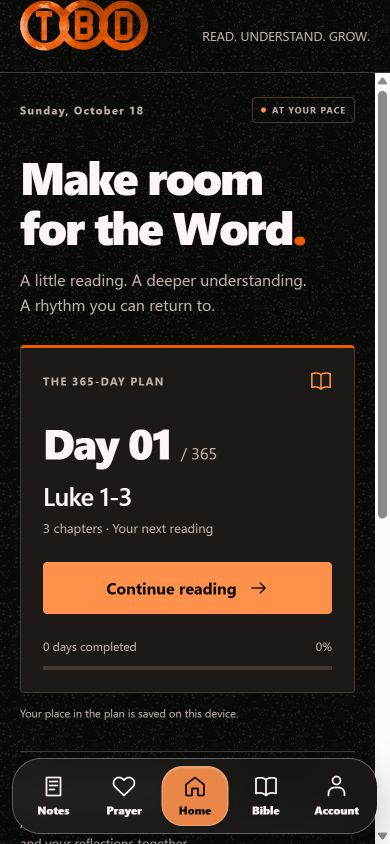
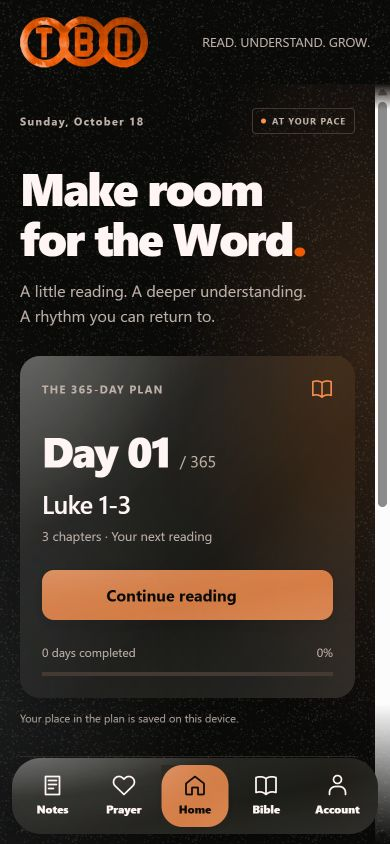
Document glass material and swipe review with updated previews

diff --git a/docs/APP_DESIGN_IMPLEMENTATION.md b/docs/APP_DESIGN_IMPLEMENTATION.md
@@ -4,7 +4,7 @@
 
 The active Expo client now opens in dark mode. Signed-in readers can select Dark or Light under Account → Settings; preferences are saved per account on that device. Guests use dark mode and cannot access Settings. Every screen, dialog, field, reader control, icon and status bar uses reactive semantic theme colors. Reading text size remains an independent preference.
 
-The background has visible, static random vector grain. The header and signed-out account screen use the actual textured TBD artwork from the public website's navbar, bundled locally as AVIF. [Asset provenance](../bibledept-mobile/assets/README.md) identifies the original source. The source image's alpha transparency and 580:229 aspect ratio are preserved, with no added backing or side padding.
+The background has visible random vector grain and broad, subtle warm/cool lighting. The background travels with the page track during tab changes. The header and signed-out account screen use the actual textured TBD artwork from the public website's navbar, bundled locally as AVIF. [Asset provenance](../bibledept-mobile/assets/README.md) identifies the original source. The source image's alpha transparency and 580:229 aspect ratio are preserved, with no added backing or side padding. The header respects the safe area and adds 16 px of vertical clearance; the logo no longer overrides vertical centering.
 
 Home uses an editorial heading, date, a clear next-reading card with honest device plan progress, account streak and seven-day history, reflection shortcuts, and the latest private comment. It does not invent completed days, quotes, or activity to fill empty states. Plan continuation stays local; the chapter completion action writes the cloud reading day.
 
@@ -12,11 +12,19 @@ Home uses an editorial heading, date, a clear next-reading card with honest devi
 
 The user requested the navigation from `yadasa/church`. The reference was the local main checkout at commit [`e7b01d364f19965342d8ee69beb964e6a6a62a29`](https://github.com/yadasa/church/commit/e7b01d364f19965342d8ee69beb964e6a6a62a29), specifically [`LiquidBottomNav.tsx`](https://github.com/yadasa/church/blob/e7b01d364f19965342d8ee69beb964e6a6a62a29/apps/web/src/site/components/LiquidBottomNav.tsx) and its CSS. No Church repository files were changed.
 
-The app ports the rounded frosted shell, five evenly spaced destinations, and the indicator motion to React Native Animated. Ordering is **Notes · Prayer · Home · Bible · Account**. The indicator uses the reference's 430 ms duration, `.22,.82,.18,1` easing, offsets `0/.24/.72/1`, stretch `min(abs(delta) × .42 + 14, 76)`, and trailing compression `min(stretch × .48, 34)`. It is recolored with Bible Dept semantic colors. Width changes settle safely; a newer destination interrupts the previous transition without committing its obsolete route.
+The app ports the rounded frosted shell, five evenly spaced destinations, and the indicator motion to React Native Animated. Ordering is **Notes · Prayer · Home · Bible · Account**. Adjacent transitions retain the reference's 430 ms duration; each extra page crossed adds 90 ms, up to 700 ms. The indicator keeps `.22,.82,.18,1` easing, offsets `0/.24/.72/1`, stretch `min(abs(delta) × .42 + 14, 76)`, and trailing compression `min(stretch × .48, 34)`. It is recolored with Bible Dept semantic colors. Width changes settle safely; a newer destination interrupts the previous transition without committing its obsolete route.
 
-The screen slide and navigation indicator share one Animated.Value and the same 430 ms clock, so they start, progress, and settle together. The incoming screen slides from the side matching the tab's position. The navbar floats over the full-height page, with scrolling content visible behind its translucent blurred material; bottom scroll clearance keeps the last controls reachable. Expo Blur renders after the page's BlurTargetView, including an explicit Android blur target/method. The shell has no opaque backing, and specular borders and inset highlights finish the frosted surface. This uses portable frosted blur rather than the Church website's desktop WebGL scene refraction.
+The page position, background, motion blur and navigation indicator share one animation clock. All pages lie on a single horizontal track in nav order, so Notes → Account travels through Prayer, Home and Bible. Pages on a journey mount before it starts; a new selection resumes from the current fractional position rather than snapping to the previously requested destination. Resize and reduced-motion paths settle immediately, with no residual blur.
 
-Visited screens retain their scroll positions, drafts, passage selections, and plan views. Hidden screens are removed from accessibility traversal. Reduced-motion preferences skip both animations. The website's one-time expanding intro is not part of the requested tab-switch animation and is not ported.
+The navbar floats over the full-height page, with scrolling content visible behind its blurred material. The header divider and decorative glass outlines are removed. True alpha masks fade page elements to zero opacity at the top (26 px) and bottom (140 px); no black gradient is painted over them. The grain remains visible beneath the transparent content edges. Bottom scroll clearance lets the final controls move fully above the fade and nav.
+
+`Glass.tsx` supplies frosted buttons, compact controls, reflection shortcuts, the reading-plan card and navigation material. Web surfaces use a 22 px backdrop blur with 170% saturation; native surfaces use Expo Blur with an explicit Android target. Broad reflections, subtle transmitted background lighting and soft shadows give the material depth without a decorative border. Orange glass keeps primary actions and the selected nav destination distinct; secondary controls retain theme text colors. Focus uses a soft glow. Native Android 31+ uses Dimezis blur; older Android versions retain the translucent material fallback and require device review.
+
+CSS alpha masks create a backdrop root. The page therefore keeps a matching grain/light backdrop within that root for the cards to actually blur, plus an aligned backdrop underneath that stays visible where content reaches zero alpha. Both move with the exact same page transform. This avoids turning frosted surfaces into flat opacity fills. Android buttons sample a separate background target, avoiding recursive sampling of their own blur layers.
+
+Page motion blur rises during travel and clears with the shared clock: web uses a small animated blur filter, while native uses a non-interactive Expo blur layer over a separate content target. The header and nav remain sharp. This uses portable frosted blur rather than the Church website's desktop WebGL refraction. Physical-device performance, native material appearance and masked blur composition remain release checks.
+
+Visited screens retain their scroll positions, drafts, passage selections, and plan views. Hidden screens are removed from accessibility traversal. Reduced-motion preferences skip the transition and motion blur. The website's one-time expanding intro is not part of the requested tab-switch animation and is not ported.
 
 ## Highlights and comments
 

diff --git a/docs/APP_RELEASE_REVIEW.md b/docs/APP_RELEASE_REVIEW.md
@@ -7,7 +7,7 @@ The active source is committed in stages to `main`: default dark theme/settings/
 | Check | Result |
 | --- | --- |
 | Expo client TypeScript | Passed. |
-| Unit tests | 24 passed: Bible requests, links, plan mapping and persistence, streak dates/DST, reminder policy, annotation ranges, and theme contrast. |
+| Unit tests | 27 passed: Bible requests, links, plan mapping and persistence, streak dates/DST, reminder policy, annotation ranges, theme contrast, intermediate-page journeys, interrupted swipe positions, and distance-based timing. |
 | Firebase client integration | 2 passed: email/phone emulator auth, callable completion, owner-only data, protected server records, annotation creation/editing, timestamp/range validation and unauthenticated denial. |
 | Backend integration | 5 passed: simultaneous retries of one ID, cross-account token reassignment/stale unregister, concurrent distinct completions, immutable retry receipts after midnight, expired first submission, 450-day migration, and reminder reservation deduplication/dry-run behavior. |
 | Active Functions TypeScript build | Passed. |
@@ -27,11 +27,21 @@ Local-demo screenshots: [dark Home with floating navigation and transparent logo
 - Verified time-zone setup, a chapter completion increasing the Home streak, preservation of plan position, and clearing private content on sign-out.
 - Created a Luke 1:1–3 highlight/comment, observed it automatically in Notes, edited it there, and reopened its original passage in Search. The same Firestore record supplied both views. Notes previews were revised to keep padding outside clamped text, avoiding a clipped extra line.
 - Added explicit web ARIA selection/check states and hid inactive pages from accessibility traversal. Reduced-motion paths are implemented; native OS testing remains part of release validation.
-- Corrected the nav after visual feedback: both page movement and indicator now use one 430 ms Animated.Value. The nav is an absolute overlay above the full-height page, with real backdrop blur and no opaque parent backing. Android receives an explicit BlurTargetView ref and blur method. A browser sample observed the incoming page still 21 px from its settled position while the nav indicator remained stretched, then both settled to their final geometry.
+- Corrected the nav after visual feedback: page movement, background, motion blur and indicator now use one animation clock (430 ms adjacent, up to 700 ms for long jumps). The nav is an absolute overlay above the full-height page, with real backdrop blur and no opaque parent backing. Android receives an explicit BlurTargetView ref and blur method. A browser sample observed the incoming page still 21 px from its settled position while the nav indicator remained stretched, then both settled to their final geometry.
 - Corrected the logo framing: the original AVIF was already transparent. Removed the added white wrapper and preserved its native 580:229 ratio, eliminating both padding and letterboxing without redrawing the brand asset.
-- Increased grain visibility and replaced the regular fleck placement with a deterministic random pattern. It stays static and behind the content.
+- Increased grain visibility and replaced the regular fleck placement with a deterministic random pattern. It travels horizontally with the page while remaining visible beneath the transparent scroll fades.
 - Tightened reminder expiry to subtract the seconds already elapsed in the current minute, preventing a ticket TTL from extending beyond the local sending window or quiet-hours boundary. The boundary case is covered in the reminder policy tests.
 - Browser console review reported no warnings or errors during the reviewed flows.
+
+## Follow-up visual review
+
+- Rebuilt page transitions as one ordered track. At 390 px width, a Notes → Account sample showed Bible at x = 99 px while Account was still offscreen at x = 489 px. Content and grain had the same −1071.23 px transform. Motion blur was 2.47 px during travel and 0 px on arrival.
+- Verified the original 128 px logo begins about 16.7 px below the web viewport top. Removed the alignment override that had pinned it to the top.
+- Replaced opaque scroll-edge gradient overlays with alpha masks. The background persists where foreground content reaches zero alpha, and the header divider is removed.
+- Replaced flat button/card fills with shared frosted blur, reflected lighting and borderless shadows. Checked the plan card and action labels in both Dark and Light, including the darker orange glass needed for white labels in Light.
+- Checked local phone sign-in and signed-in appearance controls after the button changes. Inactive web pages use `inert` in addition to ARIA hiding so their retained inputs cannot receive keyboard focus.
+- Re-ran client TypeScript, all 27 unit tests and web/iOS/Android JavaScript exports after the changes. Backend behavior was unchanged; the prior Firebase/backend integration results above remain the baseline.
+- At 320 px width, the document had no horizontal overflow and nav targets measured about 53 × 60 px. A clean reload of the finished app reported no console warnings or errors.
 
 ## Remaining live-release requirements
 

diff --git a/README.md b/README.md
@@ -38,8 +38,8 @@ BibleDept is a **free app**. The active client has no giving, checkout, subscrip
 
 | Available in the current client | Status |
 | --- | --- |
-| Website-inspired design | Default dark theme with orange accents, visible grain, and the original transparent navbar logo in the header and sign-in screen. Signed-in users can choose Light or Dark under Account → Settings. |
-| Floating frosted navigation | Notes · Prayer · Home · Bible · Account, adapted from the Church repo. The stretch/compress indicator and directional page slides share one 430 ms animation clock. |
+| Website-inspired design | Default dark theme with orange accents, moving grain, borderless frosted buttons and plan card, and the original transparent navbar logo with safe top clearance. Signed-in users can choose Light or Dark under Account → Settings. |
+| Floating frosted navigation | Notes · Prayer · Home · Bible · Account, adapted from the Church repo. The stretch/compress indicator, continuous page track, moving background and motion blur share one clock. Long jumps pass through intermediate pages; content fades to zero opacity at the scroll edges. |
 | Home | Next-reading card, honest device plan progress, private streak/week/best stats, reflection shortcuts, and the latest saved comment. |
 | Online Bible reading | Real passages from bible-api.com, with World English Bible and King James Version selection. No API key required. |
 | Official 365-day plan | A compact 5.1 KB mapping bundled inside the app, Day 1 start, current-day marker, next-day continuation, chapter selection, and a numbered day picker with direct jump. Plan position saves only on the device. |
@@ -104,7 +104,7 @@ The retained projects reference Stream Chat, Branch, Mailchimp, video processing
 
 The retained source includes the [older mobile app](bibledept-app/README.md), [web dashboard](bibledept-dashboard/README.md), and [Firebase backend](bibledept-functions/README.md). The older app includes Android and iOS native projects.
 
-The app is branded **BibleDept**, with website and email references using **thebibledept.com**. TypeScript checks, 24 unit tests, two Firebase auth/rules integration tests, five backend integration tests, and web/iOS/Android JavaScript exports passed. Browser review covered phone-emulator sign-in, both themes and persistence, private Settings visibility, completion-to-streak updates, highlight/comment synchronization, note editing/opening, responsive layout, and simultaneous page/nav motion. A signed native build and physical iPhone/Android validation are still needed before release. Real SMS, push delivery, public universal links, and native glass rendering have not been device-verified.
+The app is branded **BibleDept**, with website and email references using **thebibledept.com**. TypeScript checks, 27 unit tests, two Firebase auth/rules integration tests, five backend integration tests, and web/iOS/Android JavaScript exports passed. Browser review covered phone-emulator sign-in, both themes and persistence, private Settings visibility, completion-to-streak updates, highlight/comment synchronization, note editing/opening, responsive layout, real backdrop blur in both themes, alpha fades, intermediate-page travel, and synchronized page/nav/motion blur. A signed native build and physical iPhone/Android validation are still needed before release. Real SMS, push delivery, public universal links, and native glass rendering have not been device-verified.
 
 ## Learn more
 

diff --git a/bibledept-mobile/README.md b/bibledept-mobile/README.md
@@ -13,7 +13,7 @@ npm start
 
 Install the current Expo Go on the iPhone, sign in with the same Expo account as the CLI, connect the phone and computer to the same local network, and scan the terminal QR code with the Camera app. This project targets Expo SDK 57. `npm run web` opens the same React Native UI in a browser for local verification.
 
-The client defaults to dark mode with visible grain, the website's transparent navbar logo, and floating frosted navigation adapted from the Church repo. The page slide and nav stretch/compress run on the same 430 ms animation clock. Tab order is Notes · Prayer · Home · Bible · Account. Signed-in users can choose Light or Dark in Account → Settings.
+The client defaults to dark mode with visible grain, the website's transparent navbar logo, and floating frosted navigation adapted from the Church repo. Borderless frosted buttons and the plan card use real backdrop blur. A continuous page track and moving grain share the nav stretch/compress clock: 430 ms for adjacent tabs, up to 700 ms for a four-position jump. Intermediate pages pass through the viewport, motion blur clears on arrival, and scroll edges fade content to zero opacity while preserving the background. Tab order is Notes · Prayer · Home · Bible · Account. Signed-in users can choose Light or Dark in Account → Settings.
 
 WEB/KJV reading, the 365-day plan, official daily podcasts, Firebase email/phone accounts, server-owned streaks, private prayer journals, verse highlights and comments synced into Notes, and optional reminder infrastructure are implemented. The chapter completion action saves a reading day; advancing the plan changes the device's saved place. Giving and payment SDKs are not included.
 
